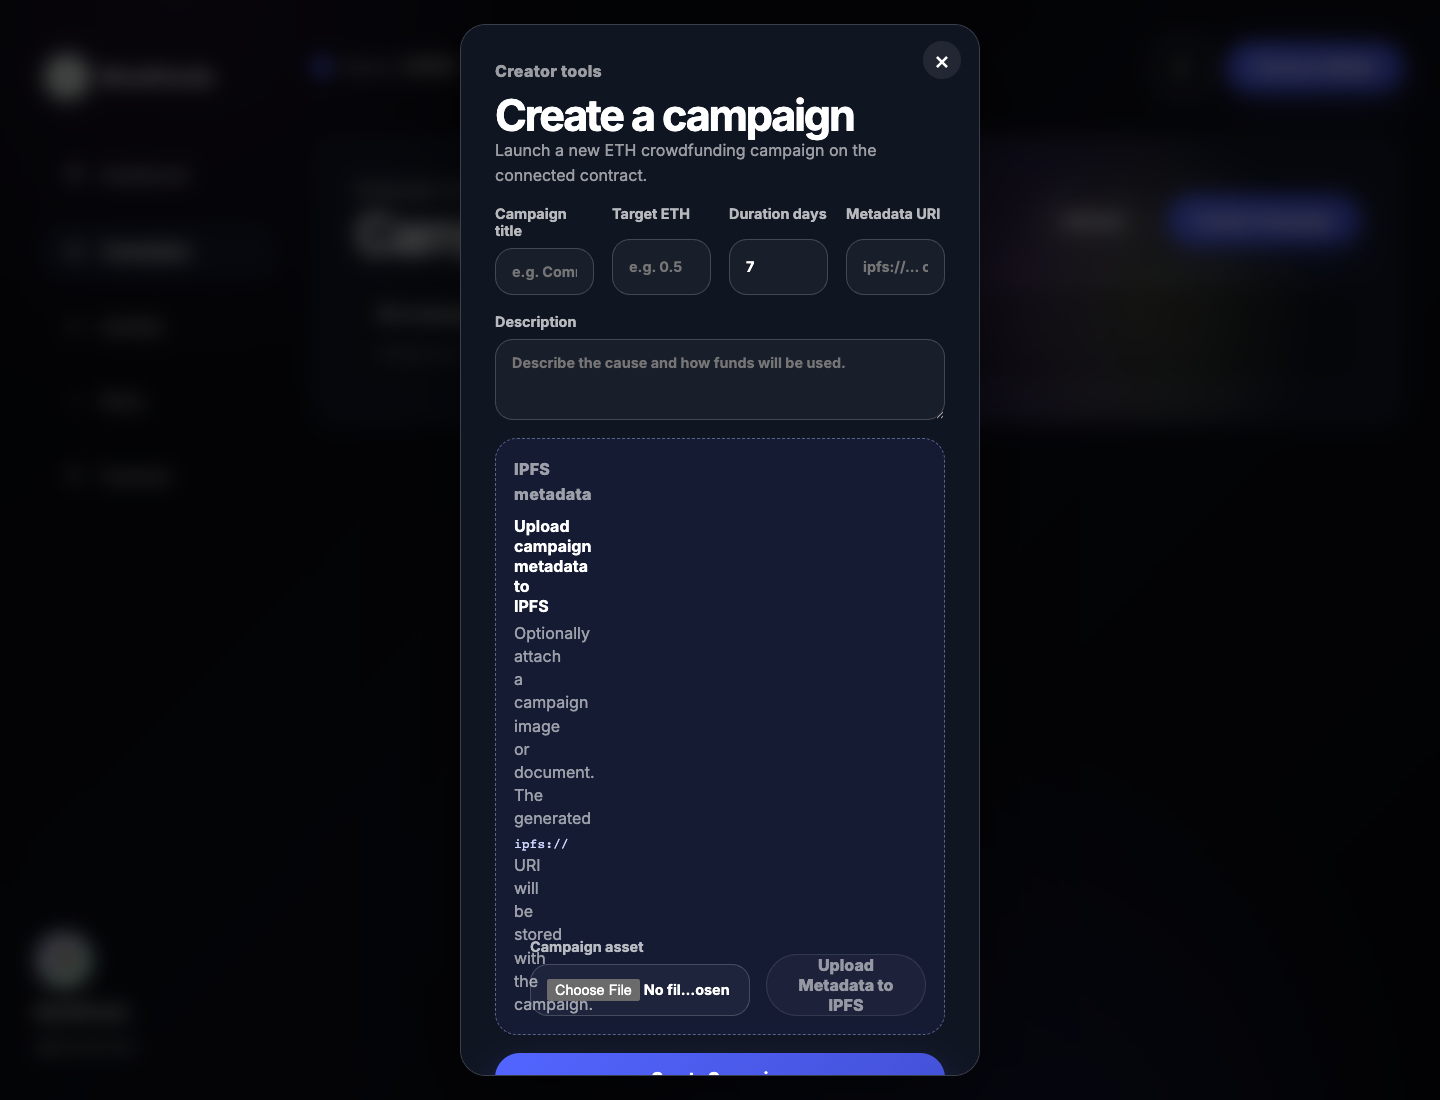
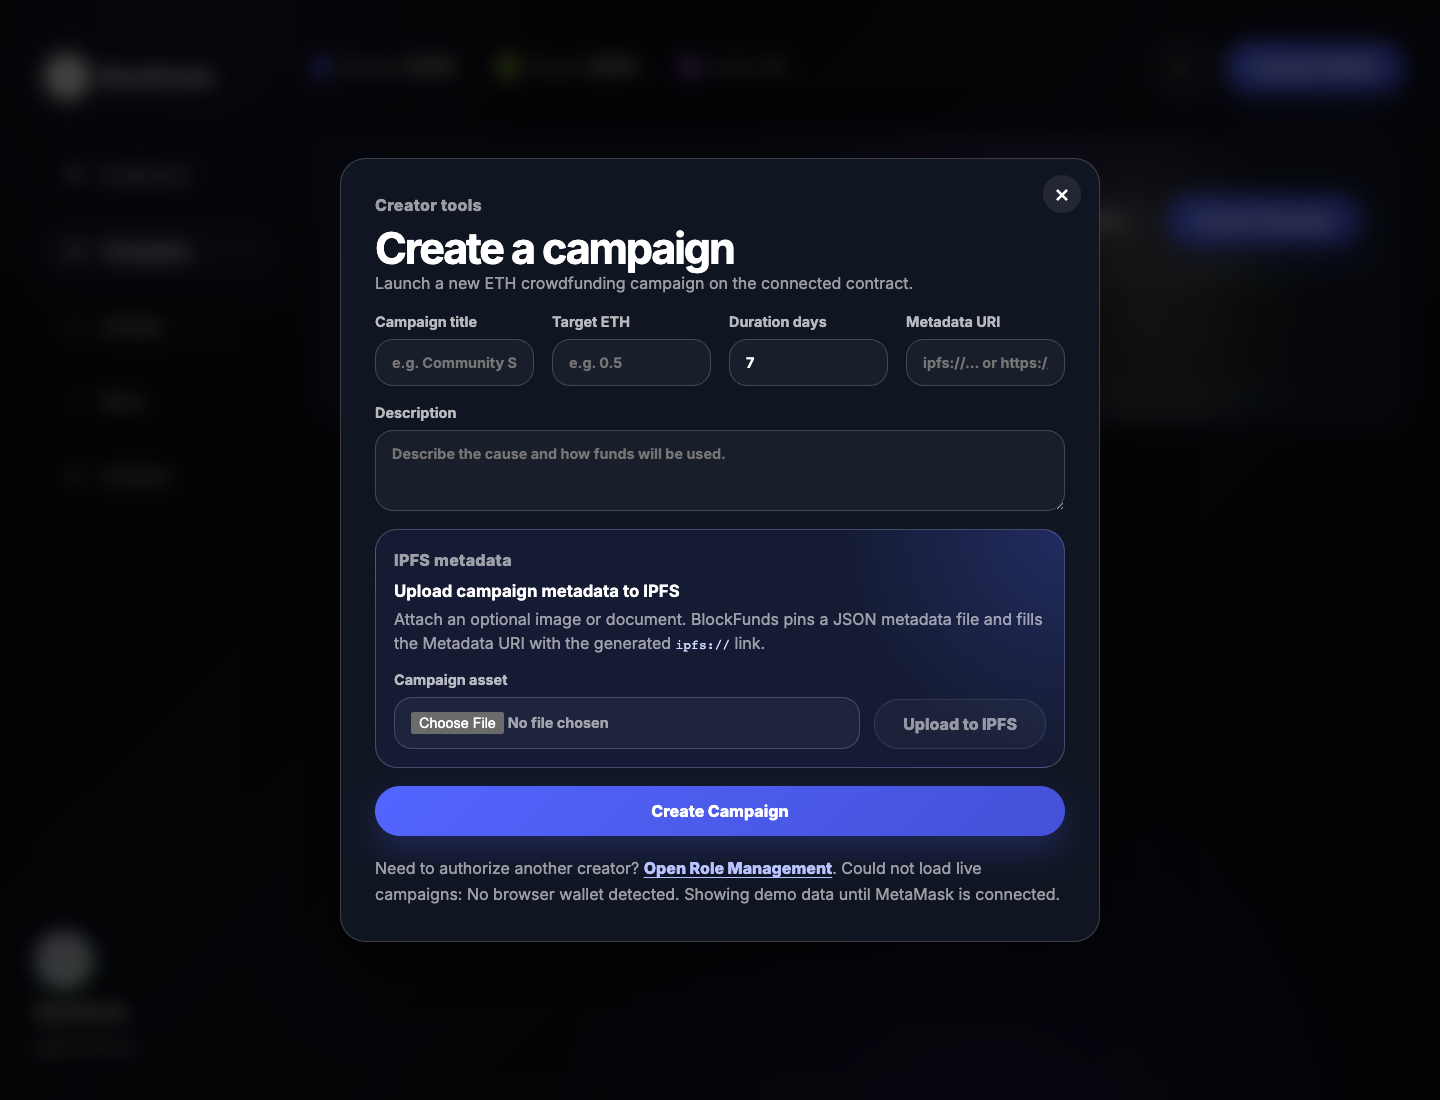
Polish IPFS upload panel UI

Changed region(s): [[0.2188, 0.0, 0.7812, 0.9891], [0.7188, 0.1545, 0.75, 0.1855]]

diff --git a/work_2-group-dapp/frontend/src/styles.css b/work_2-group-dapp/frontend/src/styles.css
@@ -734,32 +734,48 @@ h3 {
 
 .ipfs-panel {
   display: grid;
-  grid-template-columns: minmax(0, 1fr) minmax(220px, 0.7fr) auto;
   gap: 16px;
-  align-items: end;
   padding: 18px;
-  border: 1px dashed rgba(185, 195, 255, 0.42);
+  border: 1px solid rgba(185, 195, 255, 0.28);
   border-radius: 22px;
-  background: rgba(80, 100, 255, 0.08);
+  background:
+    radial-gradient(circle at 100% 0%, rgba(80, 100, 255, 0.22), transparent 14rem),
+    rgba(80, 100, 255, 0.08);
 }
 
-.ipfs-panel strong,
-.ipfs-panel span {
+.ipfs-copy strong,
+.ipfs-copy span {
   display: block;
 }
 
-.ipfs-panel span {
-  margin-top: 6px;
-  color: var(--muted);
-  line-height: 1.45;
+.ipfs-copy strong {
+  font-size: 1.05rem;
 }
 
-.ipfs-panel code {
+.ipfs-copy span {
+  margin-top: 6px;
+  color: var(--muted);
+  line-height: 1.5;
+}
+
+.ipfs-copy code {
   color: #cdd5ff;
+}
+
+.ipfs-actions {
+  display: grid;
+  grid-template-columns: minmax(0, 1fr) auto;
+  align-items: end;
+  gap: 14px;
 }
 
 .file-input {
   min-height: 50px;
+  color: var(--muted);
+}
+
+.create-dialog {
+  width: min(760px, calc(100vw - 32px));
 }
 
 .role-page {
@@ -840,6 +856,10 @@ h3 {
   line-height: 1.6;
 }
 
+.modal.create-dialog {
+  width: min(760px, calc(100vw - 32px));
+}
+
 .modal-close {
   position: absolute;
   top: 16px;
@@ -916,7 +936,7 @@ h3 {
   .create-form,
   .contract-page-grid,
   .role-grid,
-  .ipfs-panel {
+  .ipfs-actions {
     grid-template-columns: 1fr;
   }
 

diff --git a/work_2-group-dapp/frontend/src/lib/DashboardApp.svelte b/work_2-group-dapp/frontend/src/lib/DashboardApp.svelte
@@ -351,18 +351,20 @@
     </label>
 
     <div class="ipfs-panel wide">
-      <div>
+      <div class="ipfs-copy">
         <p class="eyebrow">IPFS metadata</p>
         <strong>Upload campaign metadata to IPFS</strong>
-        <span>Optionally attach a campaign image or document. The generated <code>ipfs://</code> URI will be stored with the campaign.</span>
+        <span>Attach an optional image or document. BlockFunds pins a JSON metadata file and fills the Metadata URI with the generated <code>ipfs://</code> link.</span>
       </div>
-      <label>
-        Campaign asset
-        <input class="file-input" type="file" accept="image/*,.pdf,.json,.txt" on:change={handleIpfsAssetChange} />
-      </label>
-      <Button variant="ghost" class="ghost-button" type="button" onclick={uploadMetadataToIpfs} disabled={ipfsUploading || !form.title || !form.description}>
-        {ipfsUploading ? 'Uploading...' : 'Upload Metadata to IPFS'}
-      </Button>
+      <div class="ipfs-actions">
+        <label>
+          Campaign asset
+          <input class="file-input" type="file" accept="image/*,.pdf,.json,.txt" on:change={handleIpfsAssetChange} />
+        </label>
+        <Button variant="ghost" class="ghost-button" type="button" onclick={uploadMetadataToIpfs} disabled={ipfsUploading || !form.title || !form.description}>
+          {ipfsUploading ? 'Uploading...' : 'Upload to IPFS'}
+        </Button>
+      </div>
     </div>
 
     <Button class="primary-button wide" type="submit" disabled={busy}>Create Campaign</Button>

diff --git a/work_2-group-dapp/frontend/e2e/dashboard.spec.ts b/work_2-group-dapp/frontend/e2e/dashboard.spec.ts
@@ -41,7 +41,7 @@ test.describe('BlockFunds dashboard', () => {
 
     await expect(page.getByLabel('Campaign title')).toHaveValue('E2E Test Campaign');
     await expect(page.getByLabel('Target ETH')).toHaveValue('2.5');
-    await expect(page.getByRole('button', { name: 'Upload Metadata to IPFS' })).toBeVisible();
+    await expect(page.getByRole('button', { name: 'Upload to IPFS' })).toBeVisible();
 
     await page.getByRole('dialog').getByRole('button', { name: 'Create Campaign' }).click();
     await expect(page.getByText('MetaMask or another EIP-1193 wallet is required.')).toBeVisible();